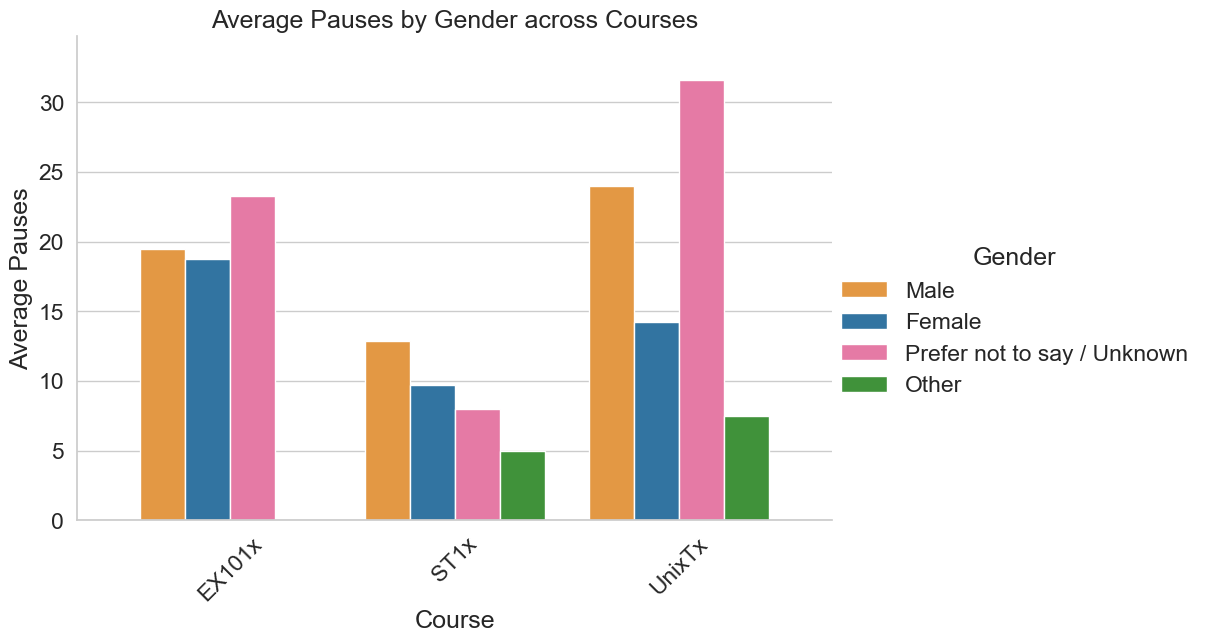
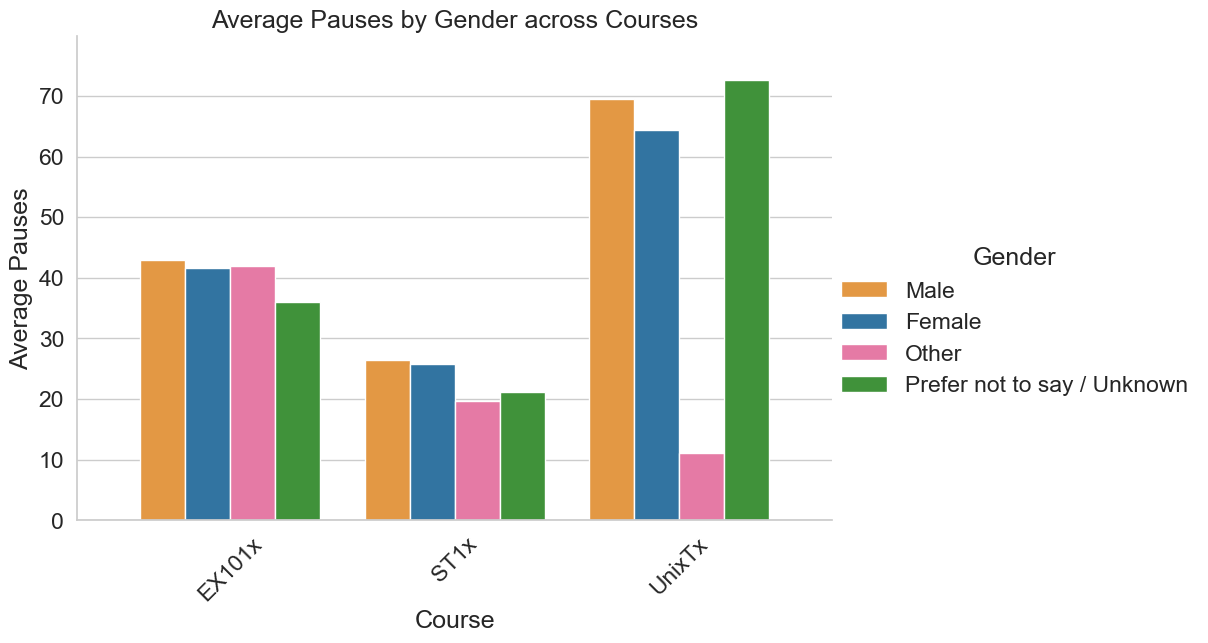
Add progress bar and update regression interaction model

diff --git a/scripts/engagement/cognitive/pauses.py b/scripts/engagement/cognitive/pauses.py
@@ -8,6 +8,7 @@ import pandas as pd
 from scipy.stats import shapiro, levene, ttest_ind, mannwhitneyu, spearmanr
 import statsmodels.api as sm
 import statsmodels.formula.api as smf
+import progressbar
 
 WORKING_DIR = 'W:/staff-umbrella/gdicsmoocs/Working copy'
 DB_LOCATION = WORKING_DIR + '/scripts/thesis_db'
@@ -21,23 +22,28 @@ def find_presurvey_files_for_course_id(course_id):
 
 def find_all_pause_events_for_course_id(course_id):
     pause_events = []
-    for log_file in find_all_log_files_for_course_id(course_id):
+    bar = progressbar.ProgressBar(maxval=len(find_all_log_files_for_course_id(course_id)), widgets=[progressbar.Bar('=', '[', ']'), ' ', progressbar.Percentage()])
+    bar.start()
+    
+    log_files = find_all_log_files_for_course_id(course_id)
+    for i, log_file in enumerate(log_files):
+        bar.update(i + 1)
         with open(log_file, 'r', encoding='utf-8') as f:
             for line in f:
                 if 'pause_video' in line:
                     pause_events.append(line)
     return pause_events
 
-# def find_all_pause_events_for_course_id_limit_5(course_id):
-#     pause_events = []
-#     for i, log_file in enumerate(find_all_log_files_for_course_id(course_id)):
-#         if i == 5:
-#             break
-#         with open(log_file, 'r', encoding='utf-8') as f:
-#             for line in f:
-#                 if 'pause_video' in line:
-#                     pause_events.append(line)
-#     return pause_events
+def find_all_pause_events_for_course_id_limit_5(course_id):
+    pause_events = []
+    for i, log_file in enumerate(find_all_log_files_for_course_id(course_id)):
+        if i == 5:
+            break
+        with open(log_file, 'r', encoding='utf-8') as f:
+            for line in f:
+                if 'pause_video' in line:
+                    pause_events.append(line)
+    return pause_events
 
 def find_gender_by_user_id(user_id):
     con = sqlite3.connect(DB_LOCATION)
@@ -52,7 +58,7 @@ def find_gender_by_user_id(user_id):
 def calculate_pause_counts(course_id):
     con = sqlite3.connect(DB_LOCATION)
     cur = con.cursor()
-    pause_events = find_all_pause_events_for_course_id_limit_5(course_id)
+    pause_events = find_all_pause_events_for_course_id(course_id)
 
     user_pause_counts = {}
     for pause_event in pause_events:
@@ -229,7 +235,7 @@ def main():
         print("P-Value:", p_value)
         print("---------------------------------------------")
         print("Regression with Interaction Results:")
-        print(regression_with_interaction(user_pause_df))
+        print(regression_with_interaction(user_pause_df['Gender'].isin(['Male', 'Female'])))
         print("---------------------------------------------")
         pause_count_df = create_pause_count_df(gender_pause_counts_per_course[course_id], course_id)
         pause_count_df = pause_count_df.loc[pause_count_df['Gender'].isin(['Male', 'Female'])]

diff --git a/scripts/engagement/presurvey/presurvey.py b/scripts/engagement/presurvey/presurvey.py
@@ -10,7 +10,7 @@ def main():
     print(presurvey['Q108_1'].value_counts())
     # Drop StartDate and EndDate
     # presurvey = presurvey.drop(columns=['StartDate', 'EndDate', 'Status', 'Progress', 'Duration..in.seconds.', 'Finished', 'RecordedDate', 'ResponseId', 'DistributionChannel', 'hash_id', 'course_id', 'course_type', 'Q4.2', 'Q4.2.4_1', 'Q4.2.4_2', 'Q4.3_1', 'Q4.4', 'Q4.5_1', 'Q4.5_2', 'Q4.6_9_TEXT', 'SP'])
-    print(presurvey.head(10))
+    # print(presurvey.head(10))
 
     # Q4.2: Which of the following best describes your current employment status?
     # Q4.3_1: What is your age? - Years:
